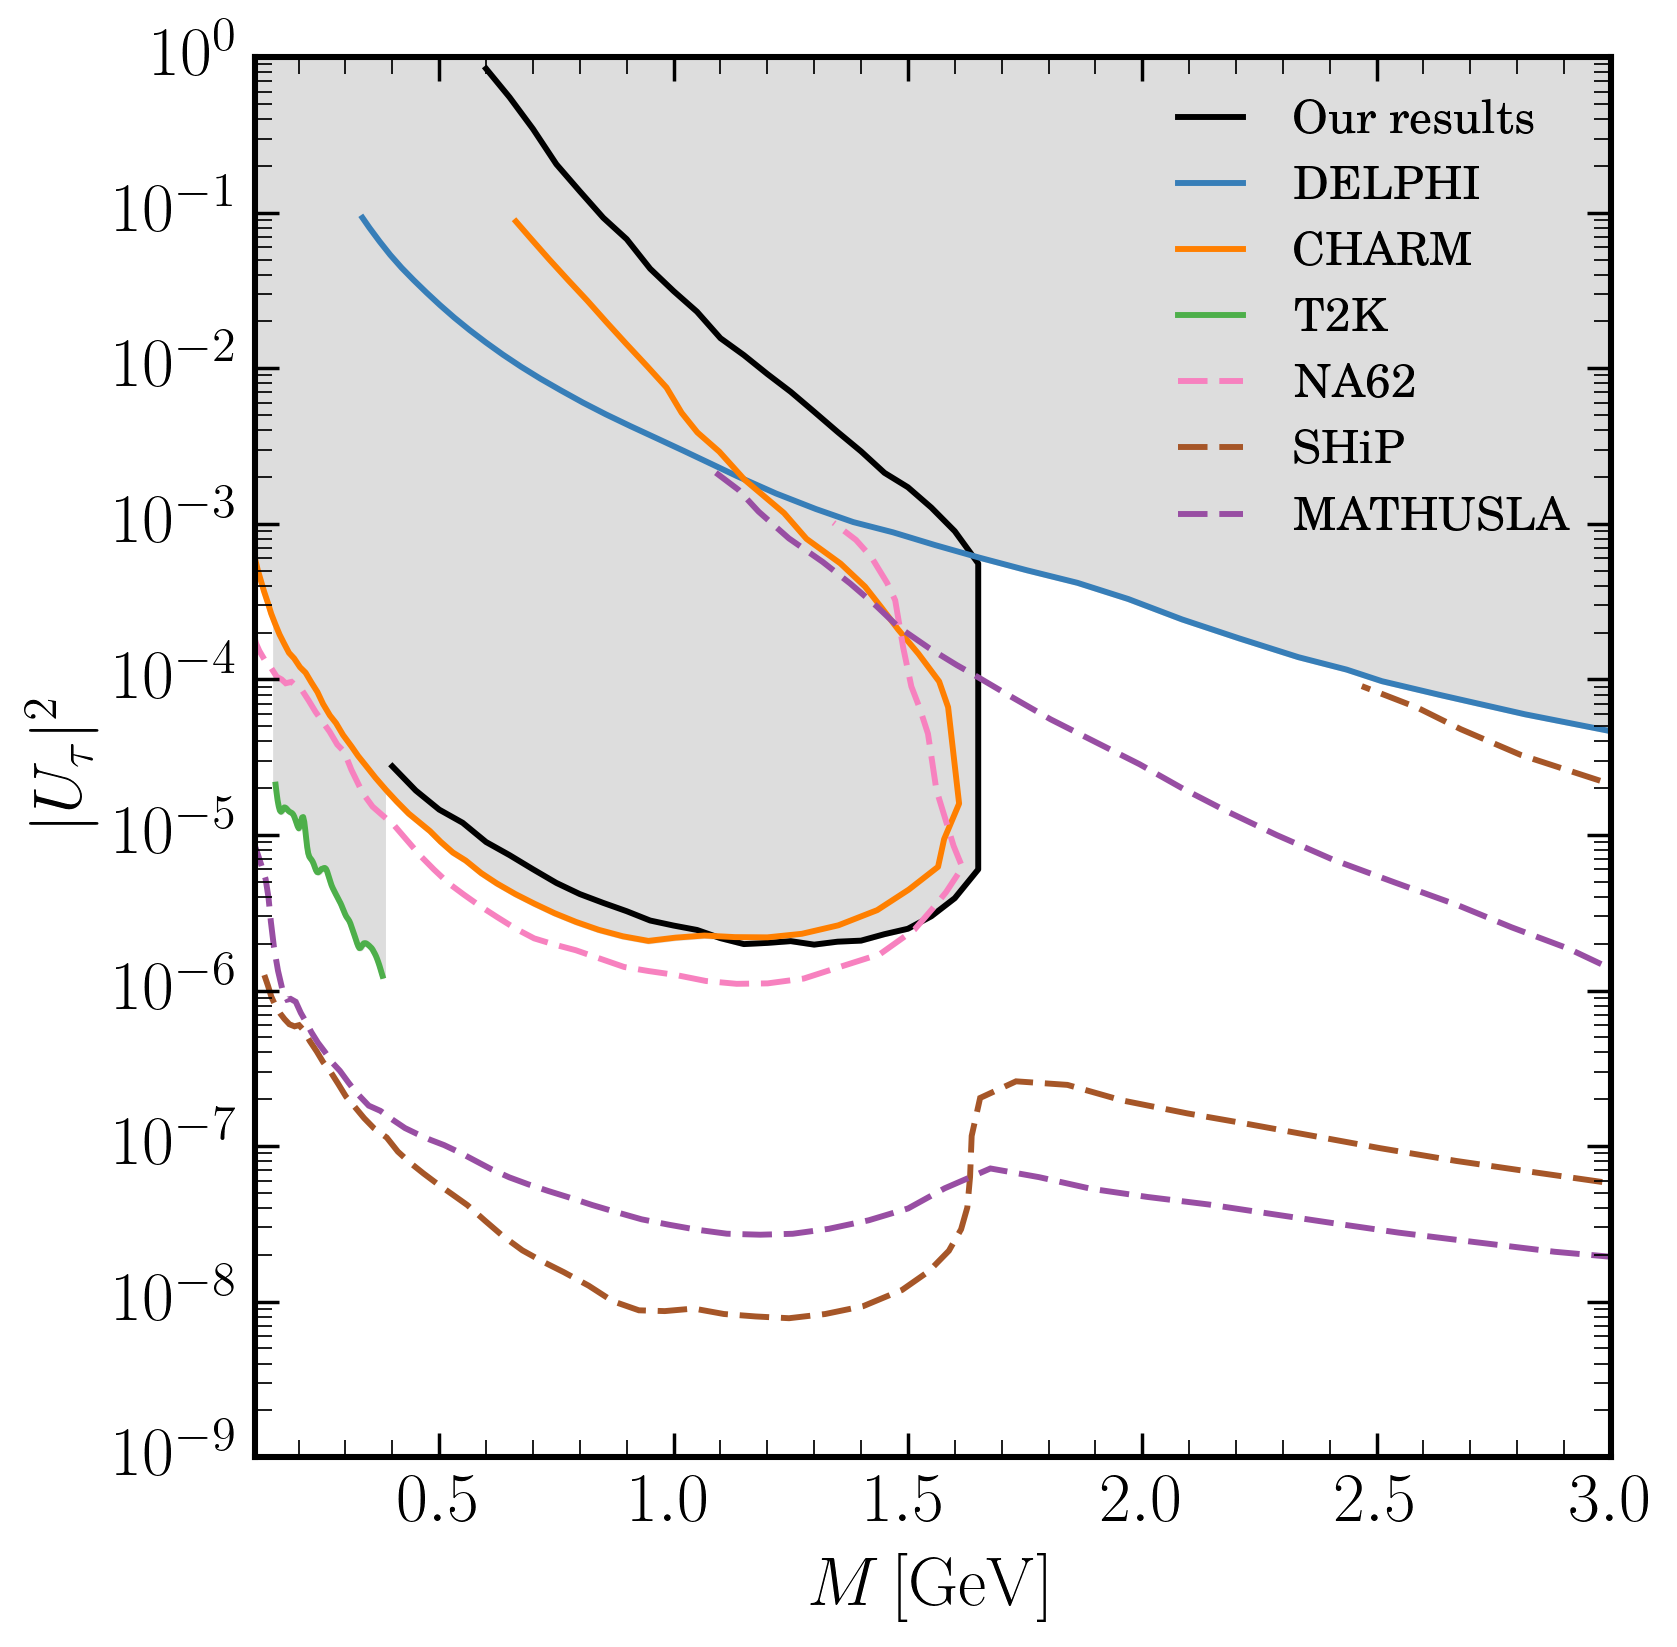
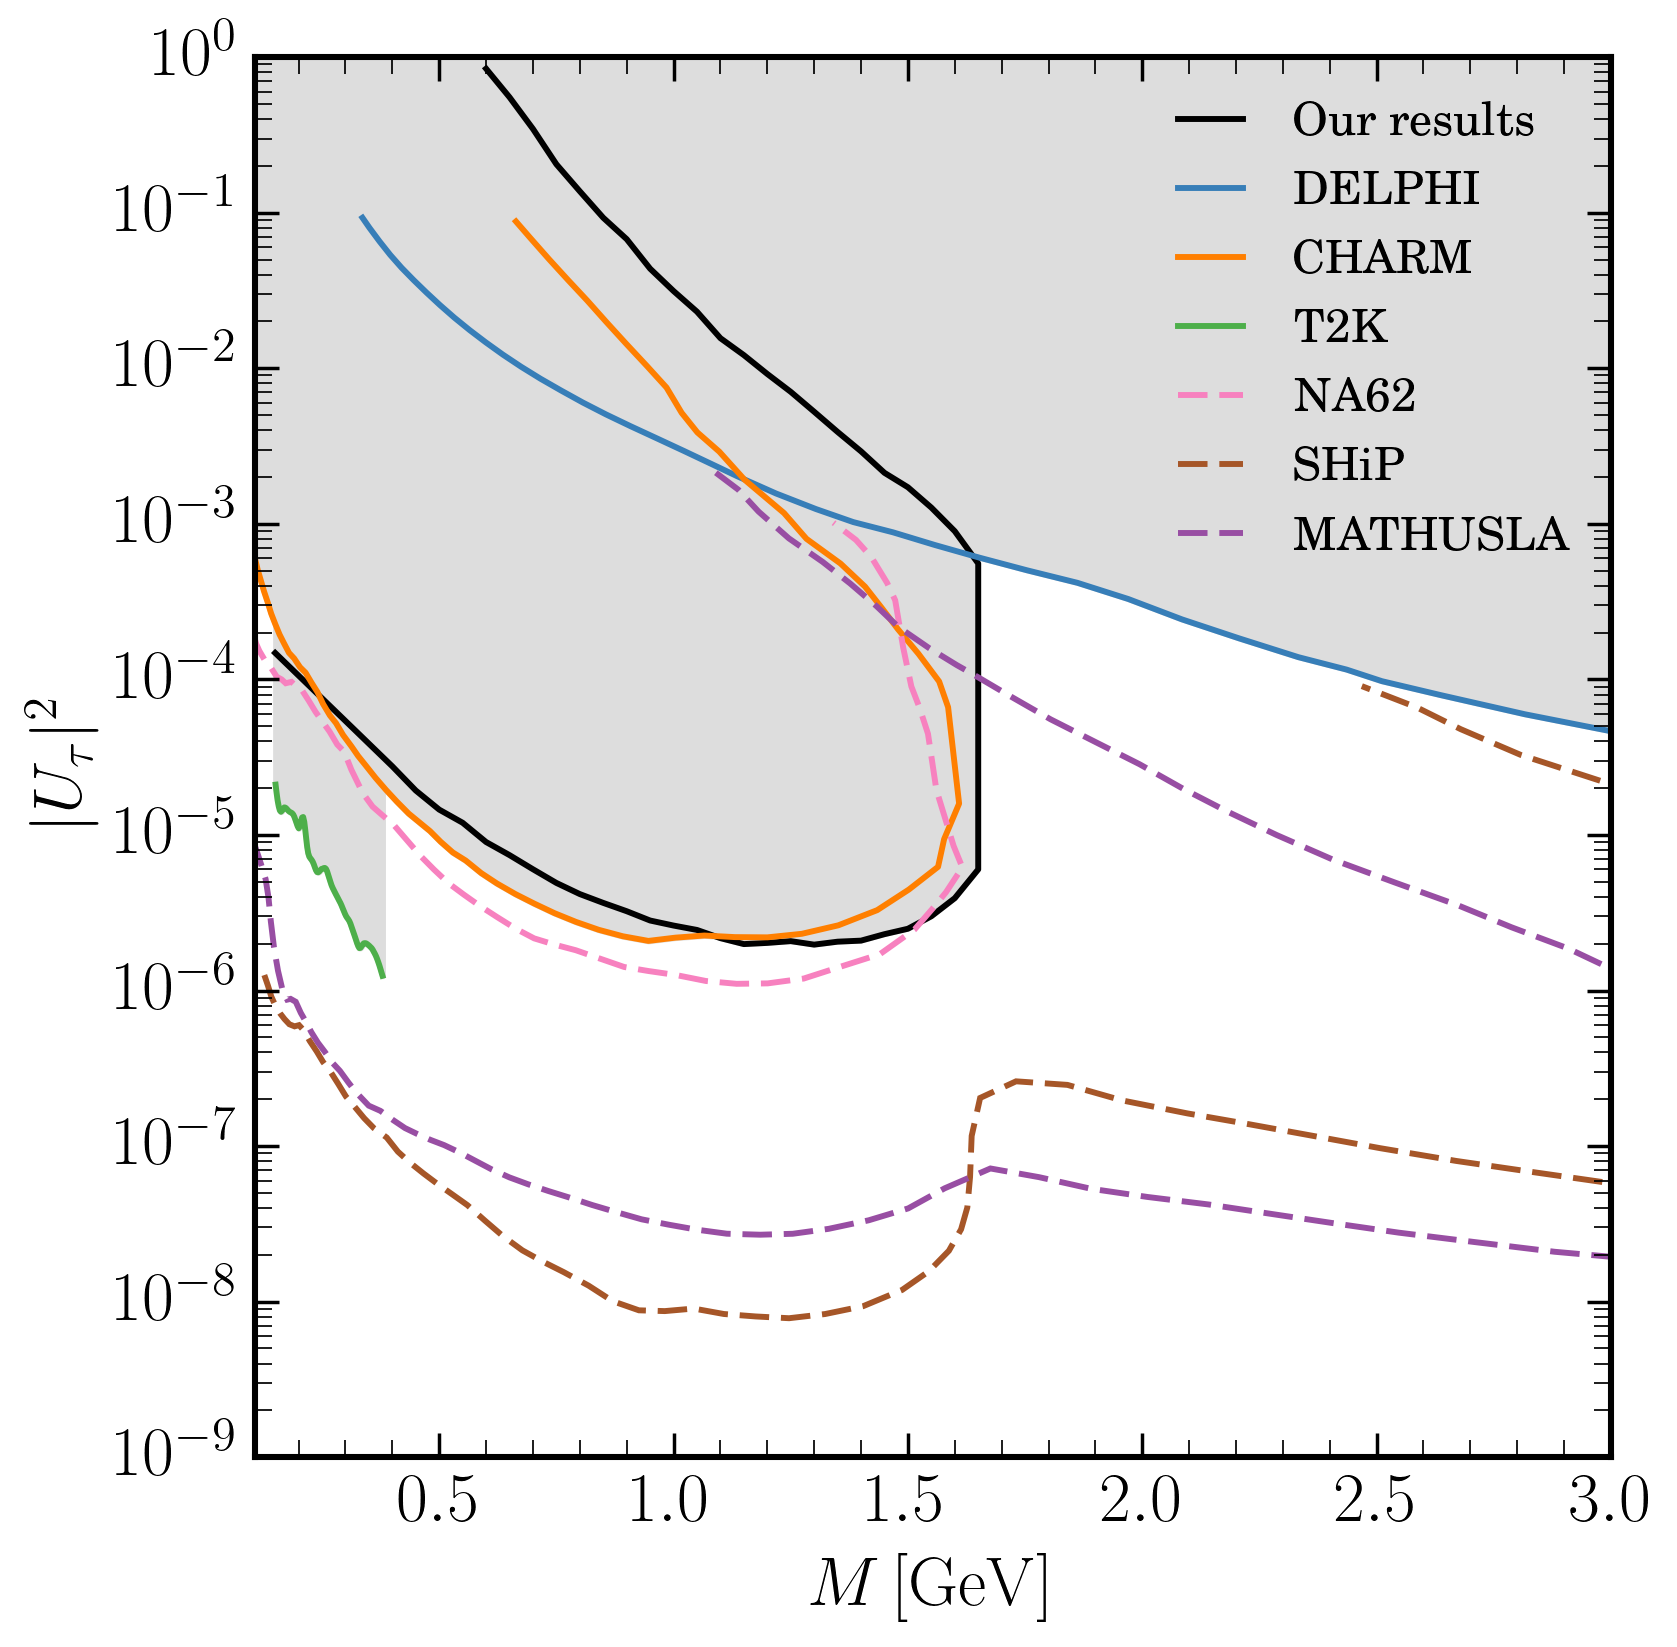
update graphs and more add Belle and DELPHI data for electron mixing

diff --git a/plot_electron_bounds.py b/plot_electron_bounds.py
@@ -19,6 +19,8 @@ def main():
     lower_bounds = read_csv_file(f"lower_bound_data/lower_bounds_{mixing_type}_non_linear.csv")
     bebc = np.array(read_csv_file("./digitised_data/electron/BEBC.csv"))
     charm = np.array(read_csv_file("./digitised_data/electron/CHARM.csv"))
+    belle = np.array(read_csv_file("./digitised_data/electron/Belle.csv"))
+    delphi = np.array(read_csv_file("./digitised_data/electron/DELPHI.csv"))
     t2k = np.array(read_csv_file("./digitised_data/electron/T2K.csv"))
     dune = np.array(read_csv_file("./digitised_data/electron/DUNE.csv"))
     mathusla = np.array(read_csv_file("./digitised_data/electron/MATHUSLA.csv"))
@@ -37,8 +39,10 @@ def main():
     plt.xlabel(r'$M\, [ \mathrm{GeV}]$')
     plt.ylabel(r'$|U_{e}|^2$')
     plt.plot(*get_cols(bebc), label="Old BEBC")
-    plt.plot(*get_cols(charm), label="CHARM")
+    # plt.plot(*get_cols(charm), label="CHARM")
+    plt.plot(*get_cols(belle), label="Belle")
     plt.plot(*get_cols(t2k), label="T2K")
+    plt.plot(*get_cols(delphi), label="DELPHI")
     plt.plot(*get_cols(na62), '--', dashes=(5,2), label="NA62")
     plt.plot(*get_cols(dune), '--', dashes=(5,2), label="DUNE")
     plt.plot(*get_cols(mathusla), '--', dashes=(5,2), label="MATHUSLA")
@@ -46,7 +50,11 @@ def main():
     plt.plot(*get_cols(bounds), 'k', label="Our results")
     plt.legend(fontsize="small")
     plt.yscale('log')
-    plt.xlim([0,3])
+    plt.xlim([0.1,3])
+    plt.fill(*get_cols(bounds), color="#ddd")
+    plt.fill_between(*get_cols(delphi), 1, color="#ddd")
+    plt.fill_between(*get_cols(belle), 1, color="#ddd")
+    plt.fill_between(*get_cols(t2k), 1, color="#ddd")
     dirname = os.path.dirname(os.path.abspath(__file__))
     plt.savefig(os.path.join(dirname, f"recent_graphs/mass_bound_plot[{mixing_type}].png"), dpi=dpi)
     plt.show()
